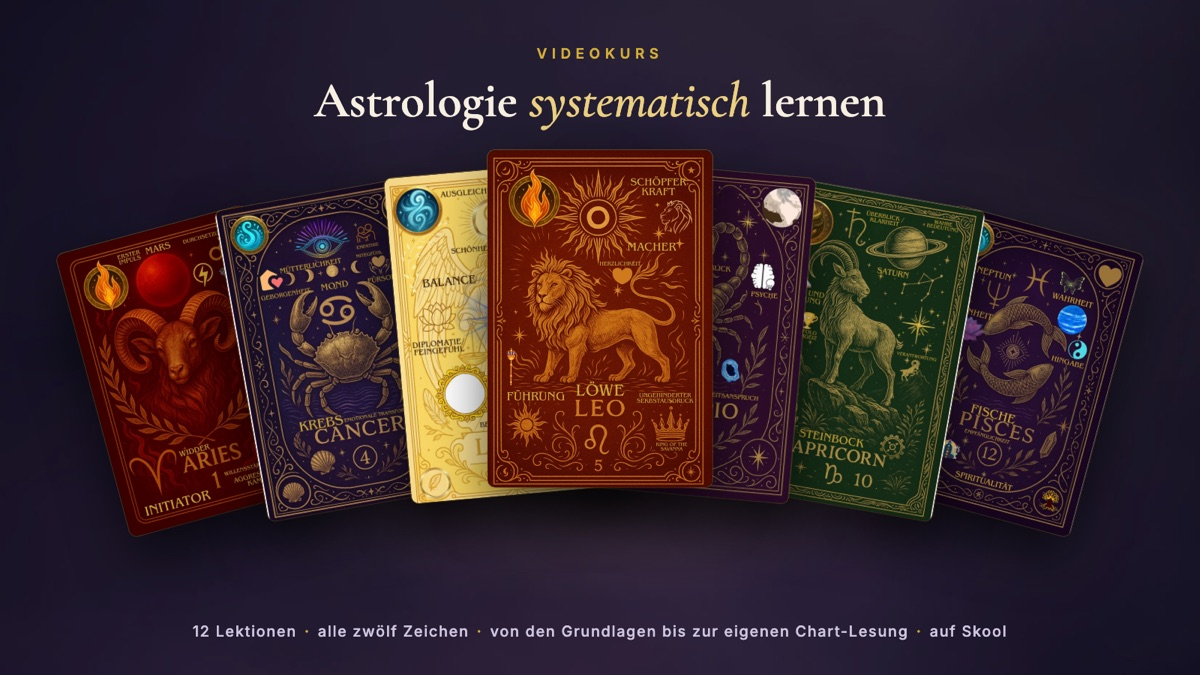
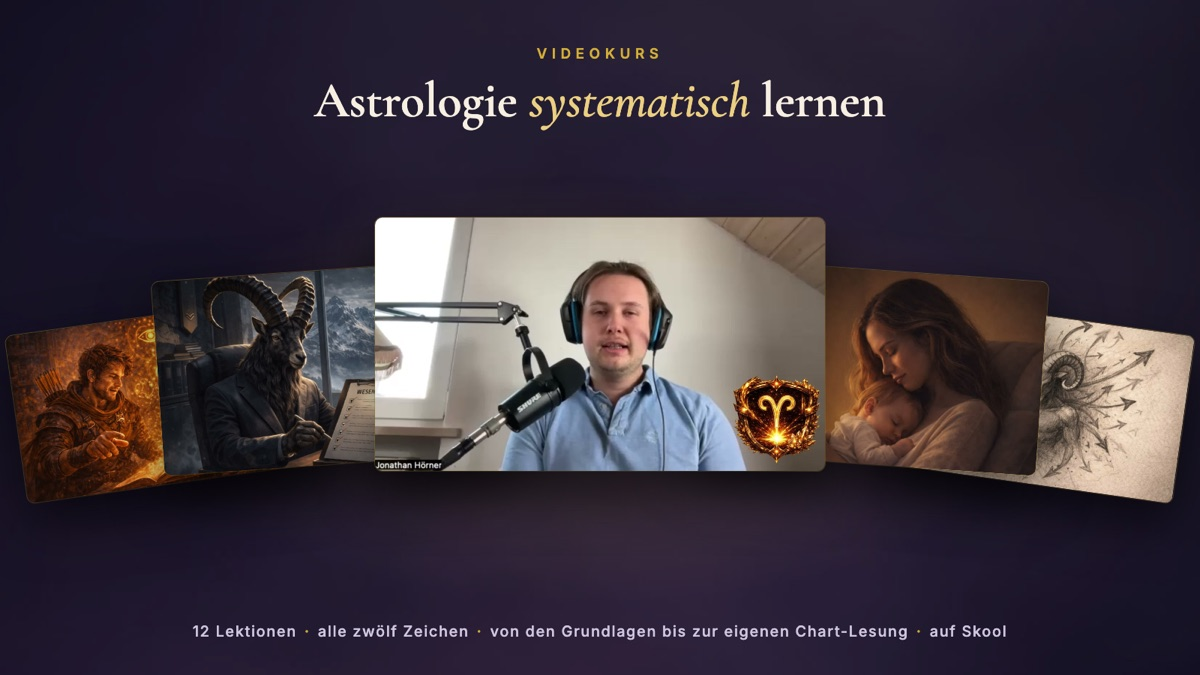
Videokurs-Bild: Standbilder aus den Lektionen statt Astrokarten

diff --git a/index.html b/index.html
@@ -1568,7 +1568,7 @@
     </div>
 
     <div class="product verfuegbar breit mit-bild">
-      <img class="product-bild" src="videokurs.jpg" width="1200" height="675" loading="lazy" alt="Sieben Tierkreis-Karten aus dem Videokurs, aufgefächert">
+      <img class="product-bild" src="videokurs.jpg" width="1200" height="675" loading="lazy" alt="Standbilder aus dem Videokurs: Jonathan am Mikrofon, dazu KI-Szenen zu Schütze, Steinbock, Krebs und Widder">
       <div class="product-num">vii</div>
       <h3 class="product-title">Videokurs</h3>
       <p class="product-tagline">Astrologie systematisch lernen</p>
